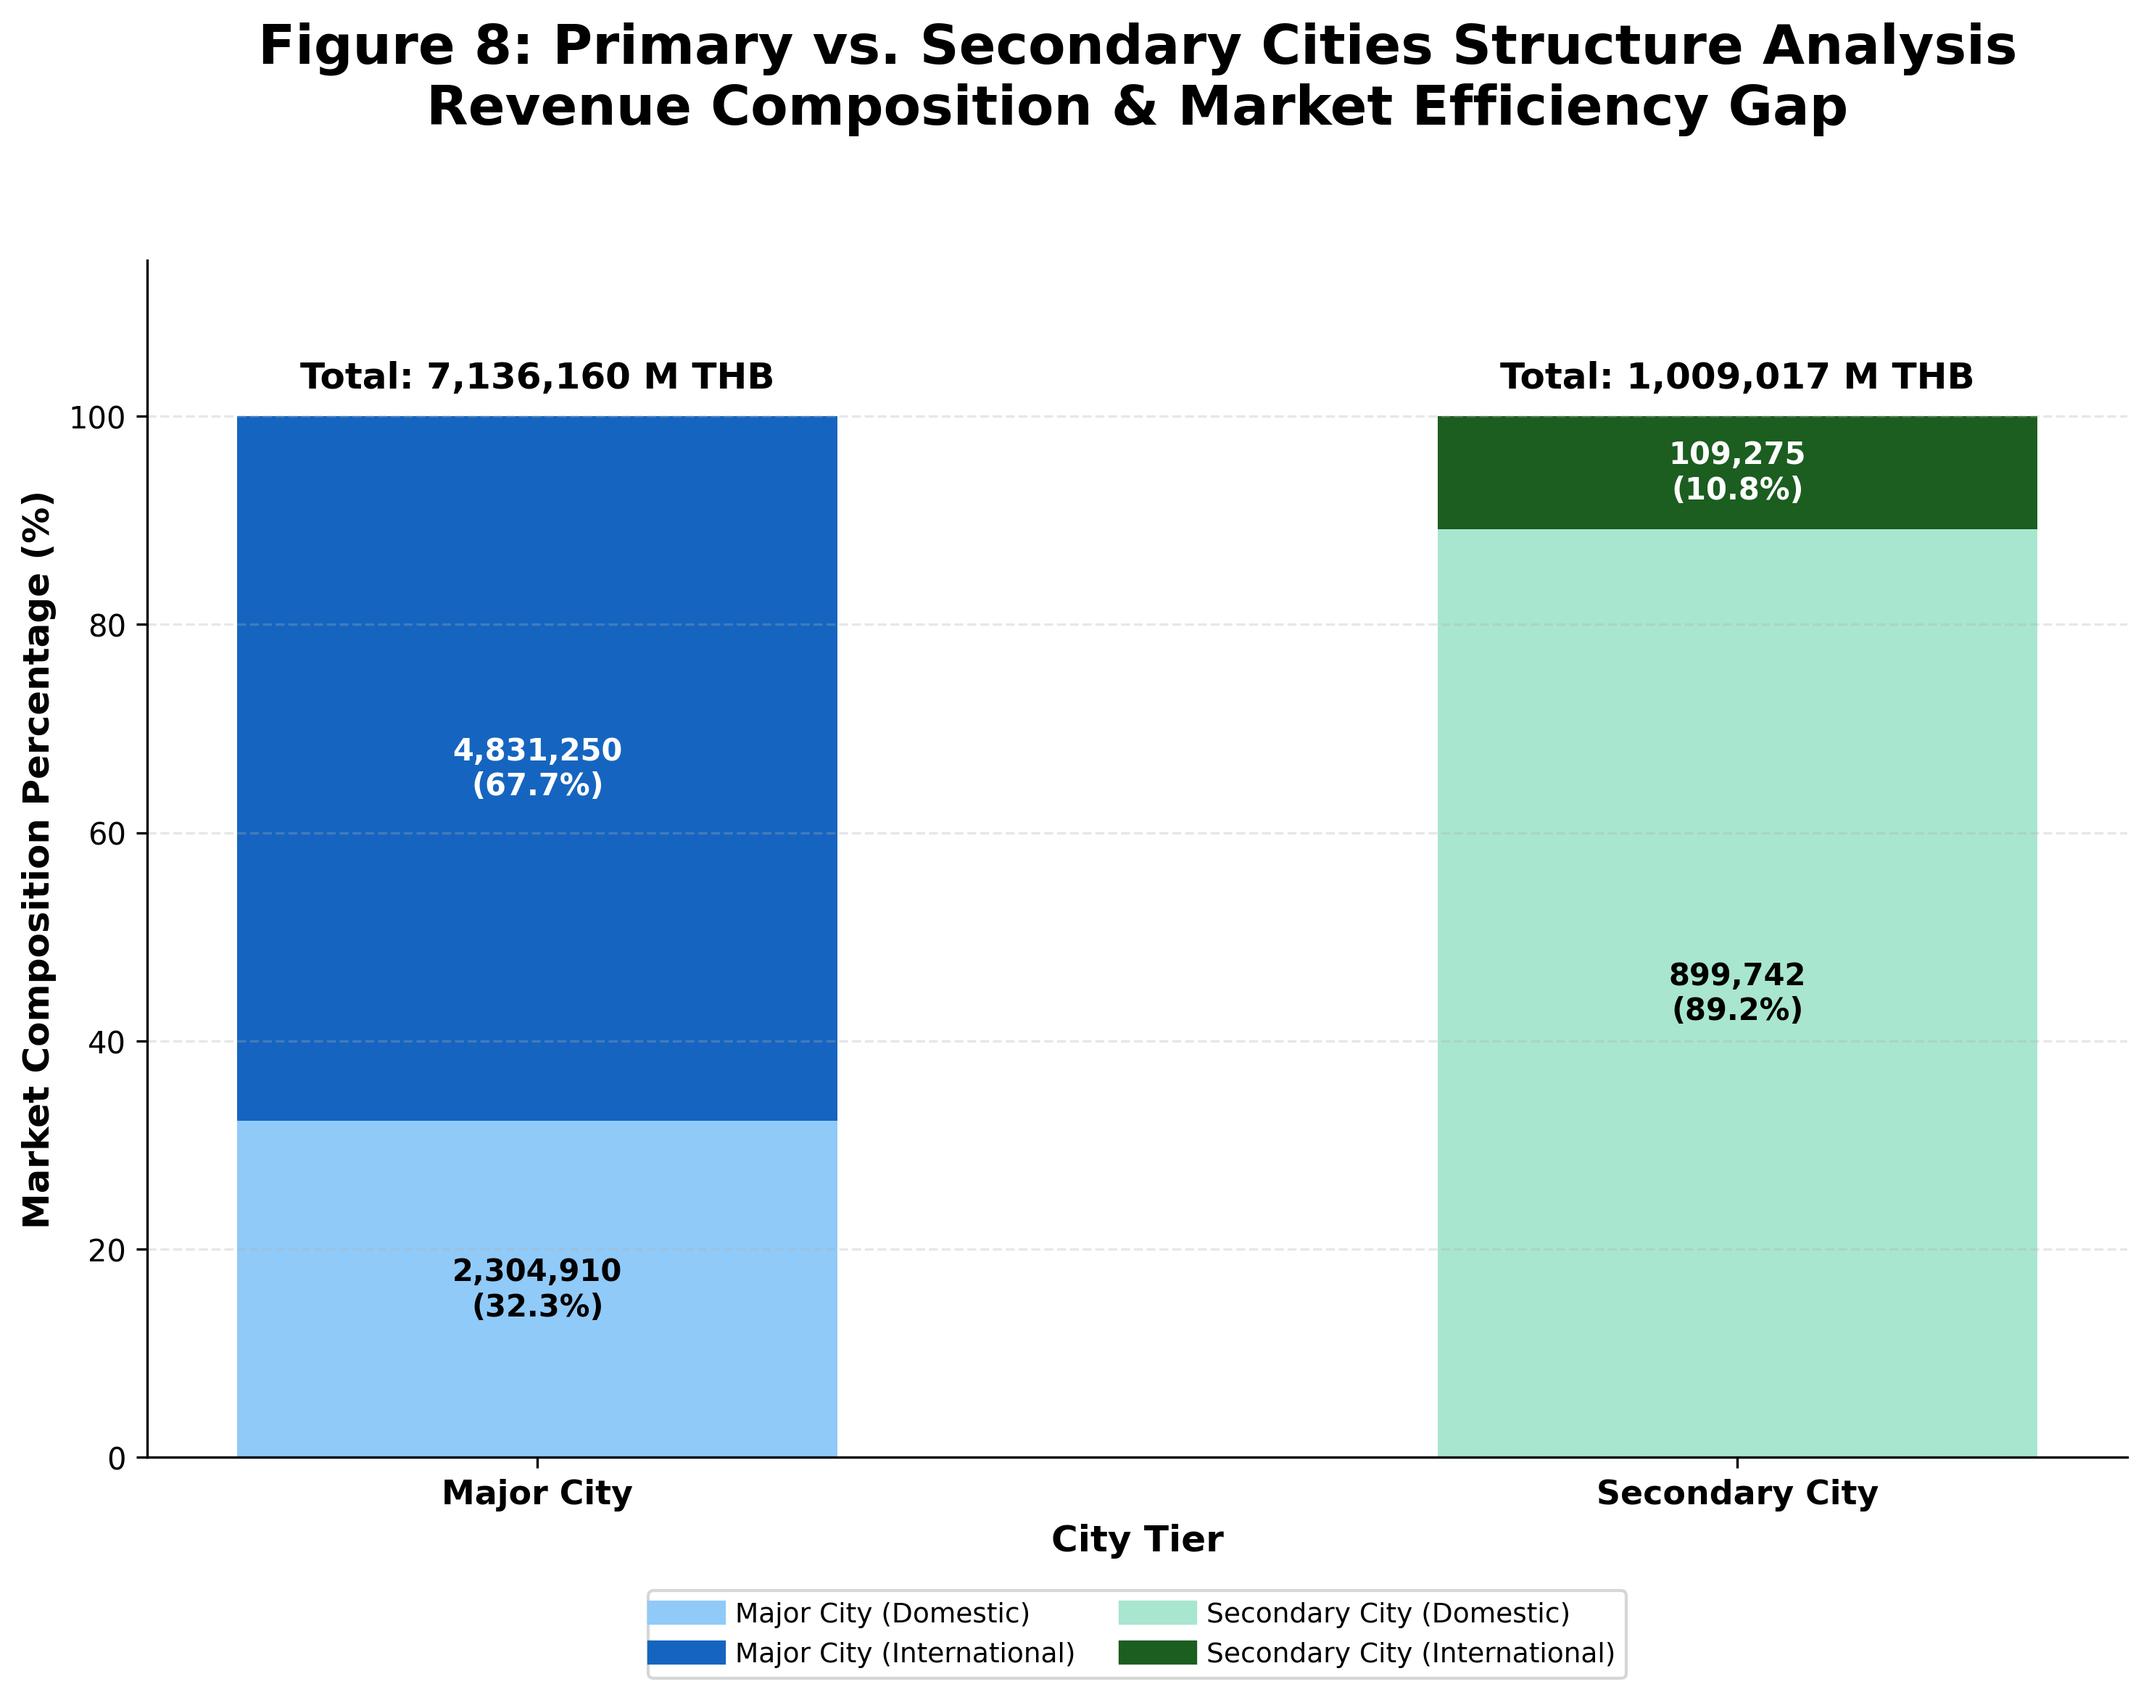
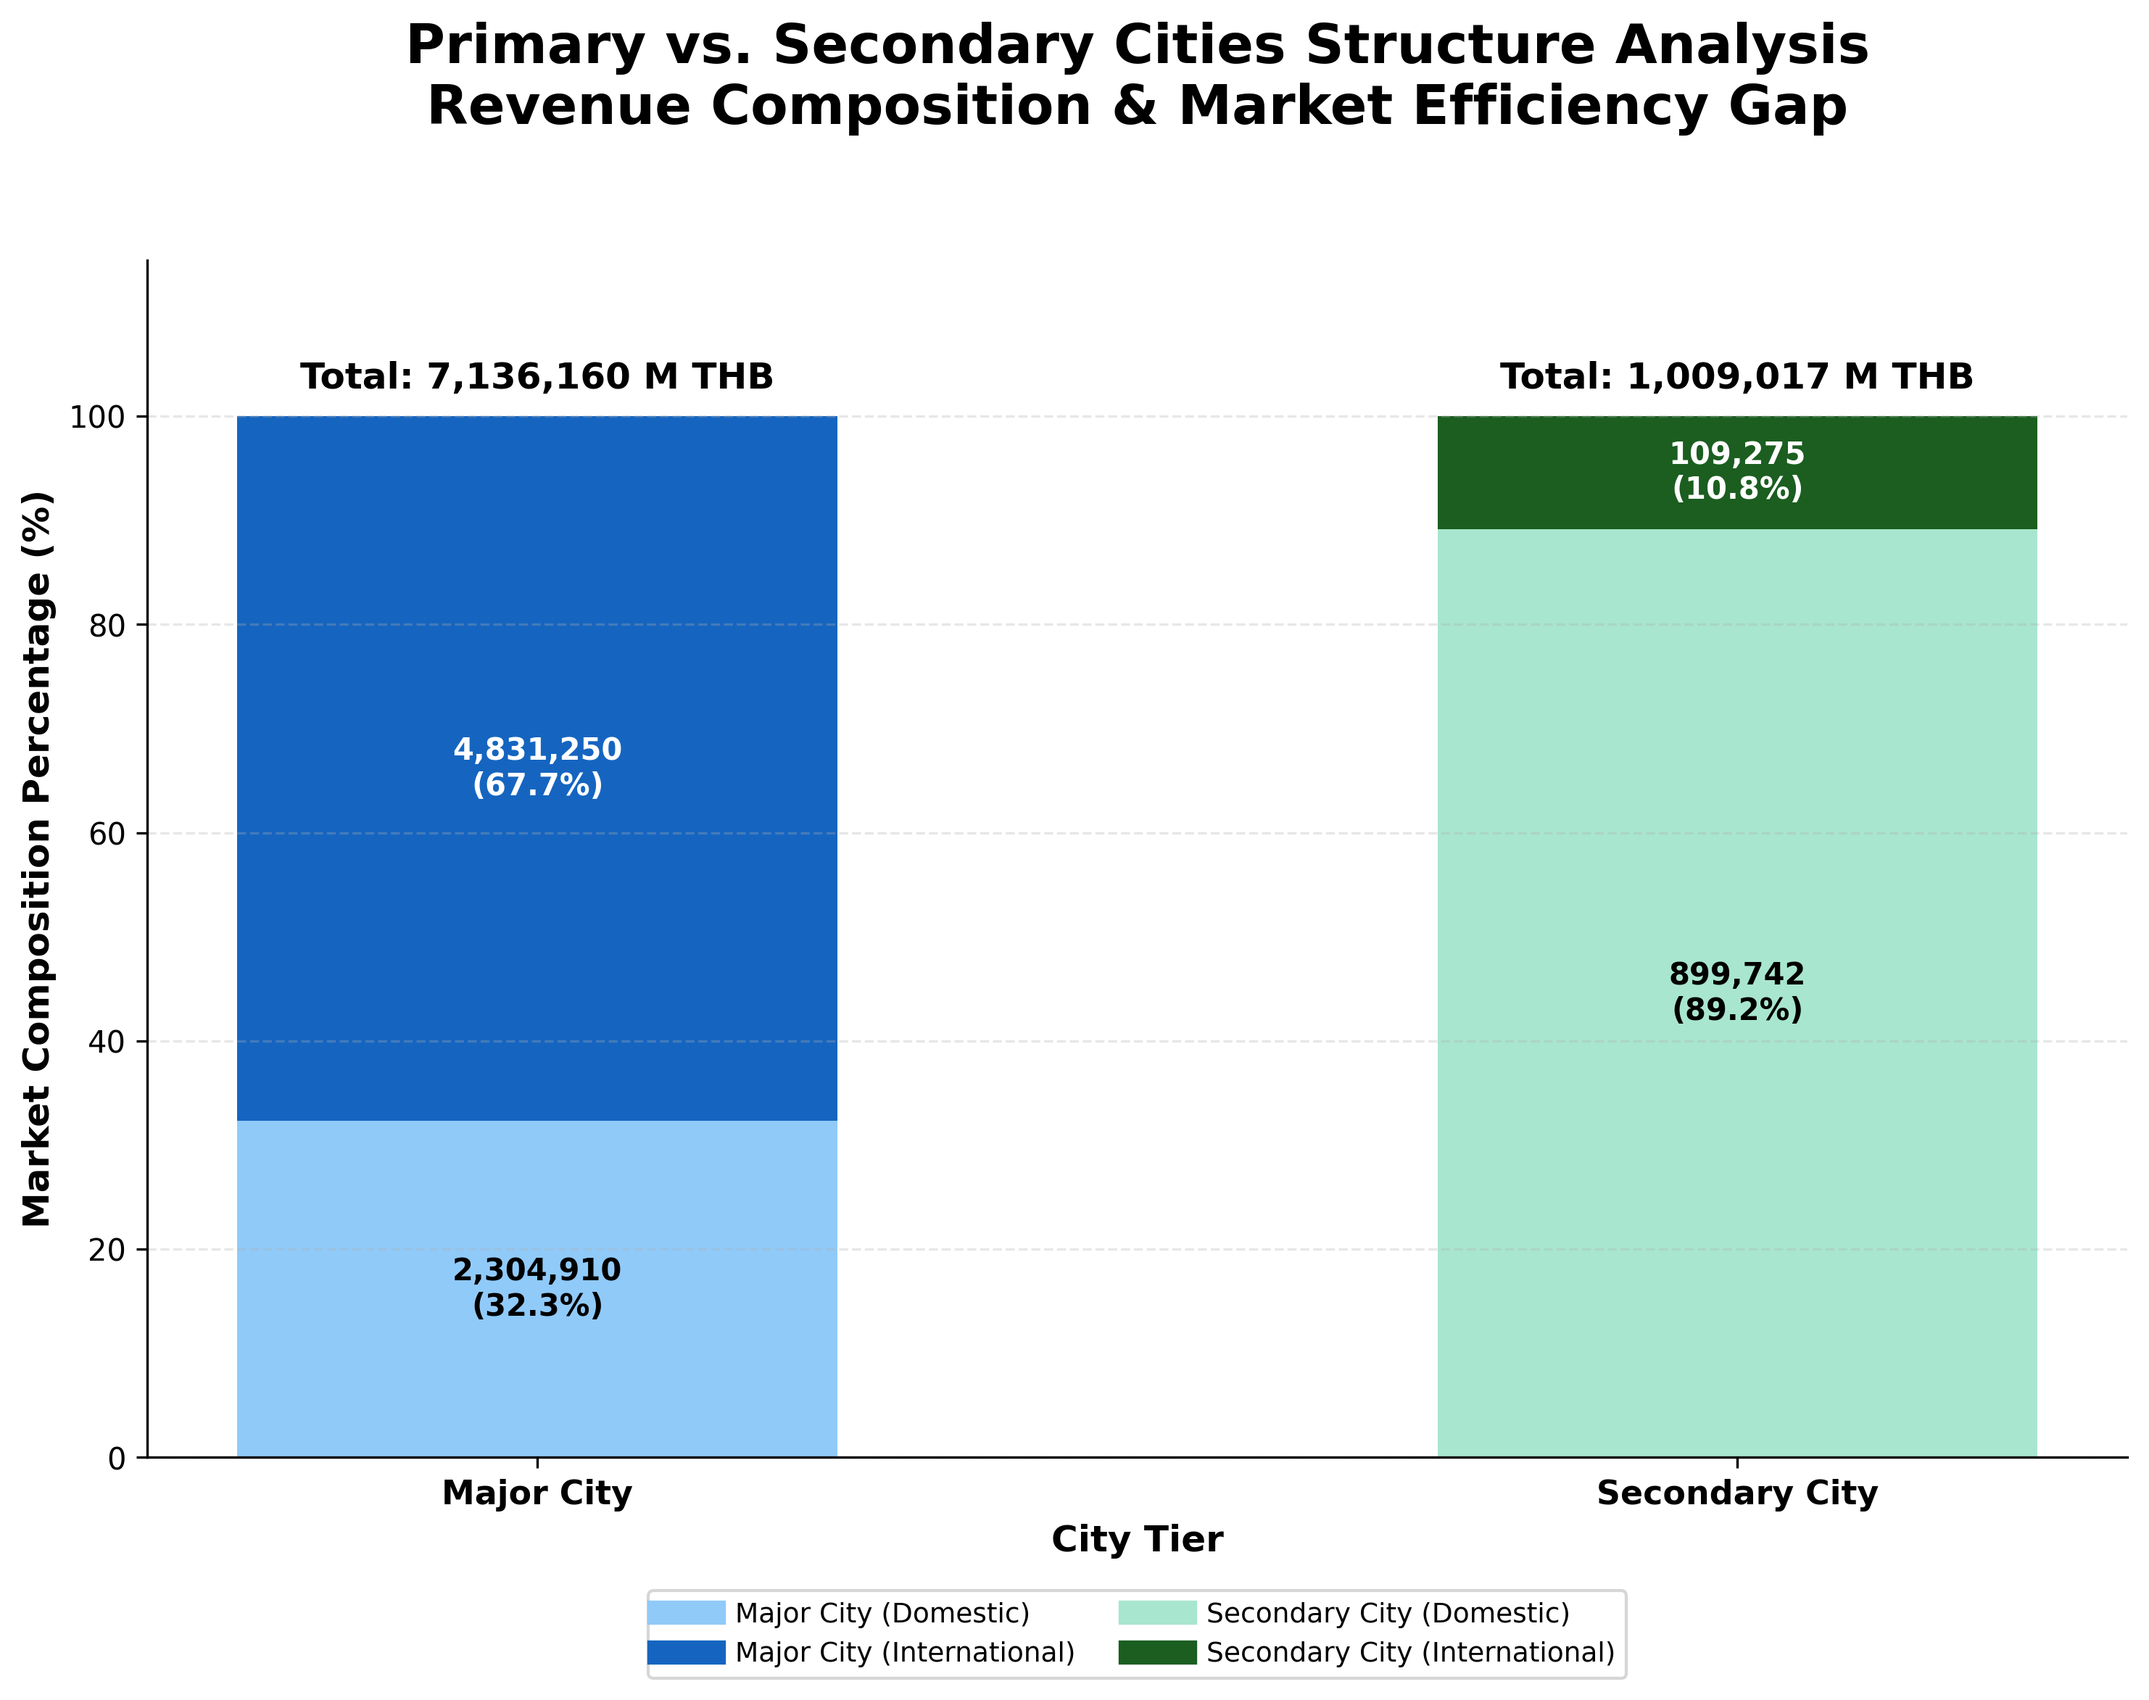
Update visualizations

Changed region(s): [[0.1242, 0.0, 0.9312, 0.0623], [0.2173, 0.7471, 0.2794, 0.7783]]

diff --git a/visualizations/04.3_IncomeStability.py b/visualizations/04.3_IncomeStability.py
@@ -131,7 +131,7 @@ ax.legend(handles=legend_handles, loc='upper right', bbox_to_anchor=(0.98, 0.78)
           fontsize=8.5, framealpha=0.92, edgecolor='#DDDDDD',
           title='Legend', title_fontsize=8.5)
 
-ax.set_title('Figure 5: Income Stability vs. Performance Matrix\nCV of Real Revenue — Higher CV = More Seasonal Risk',
+ax.set_title('Income Stability vs. Performance Matrix\nCV of Real Revenue — Higher CV = More Seasonal Risk',
              fontsize=13, fontweight='bold', color='#1A252F', loc='left', pad=16)
 ax.set_xlabel('Income Volatility  (CV % — lower = more stable)', fontsize=11, color='#444', labelpad=10)
 ax.set_ylabel('Avg Monthly Real Revenue (Million THB, log scale)', fontsize=11, color='#444', labelpad=10)

diff --git a/visualizations/03.1_ConversionEfficiency.py b/visualizations/03.1_ConversionEfficiency.py
@@ -127,7 +127,7 @@ ax.legend(handles=legend_handles, loc='upper right', bbox_to_anchor=(0.98, 0.85)
           fontsize=8.5, framealpha=0.92, edgecolor='#DDDDDD',
           title='Legend', title_fontsize=8.5)
 
-ax.set_title('Figure 4B : Tourism Conversion Matrix\nSearch Intent vs. Physical Arrivals  (avg per province, Bangkok excluded)',
+ax.set_title('Tourism Conversion Matrix\nSearch Intent vs. Physical Arrivals  (avg per province, Bangkok excluded)',
              fontsize=13, fontweight='bold', color='#1A252F', loc='left', pad=16)
 ax.set_xlabel('Search Intent (Digital Interest)', fontsize=11, color='#444', labelpad=10)
 ax.set_ylabel('Total Arrivals (Actual Footprints)', fontsize=11, color='#444', labelpad=10)

diff --git a/visualizations/07_Aggregated_Comparison.py b/visualizations/07_Aggregated_Comparison.py
@@ -73,7 +73,7 @@ for i in range(len(labels)):
                 fontsize=10, fontweight='bold')
 
 # 6. ตกแต่งหัวข้อและแกน (ดำสนิท)
-plt.title('Figure 8: Primary vs. Secondary Cities Structure Analysis\nRevenue Composition & Market Efficiency Gap', 
+plt.title('Primary vs. Secondary Cities Structure Analysis\nRevenue Composition & Market Efficiency Gap', 
           fontsize=18, fontweight='bold', pad=45, color='black')
 plt.ylabel('Market Composition Percentage (%)', fontsize=12, fontweight='bold', color='black')
 plt.xlabel('City Tier', fontsize=12, fontweight='bold', color='black')

diff --git a/visualizations/06_market_segment.py b/visualizations/06_market_segment.py
@@ -82,7 +82,7 @@ for i, total in enumerate(secondary_df['total_rev']):
 ax.invert_yaxis()
 
 # 5. ตกแต่งกราฟให้ดูพรีเมียม
-plt.title('Figure 9: Real Revenue Composition (Thai vs Foreigner)\nTotal Economic Contribution of 55 Secondary Cities', 
+plt.title('Real Revenue Composition (Thai vs Foreigner)\nTotal Economic Contribution of 55 Secondary Cities', 
           fontsize=20, fontweight='bold', pad=40, color='#333333')
 plt.xlabel('Total Real Revenue (Million THB)', fontsize=13, fontweight='bold')
 plt.ylabel('Province', fontsize=13, fontweight='bold')

diff --git a/visualizations/01.1_YieldPerHead.py b/visualizations/01.1_YieldPerHead.py
@@ -54,7 +54,7 @@ for p in ax.patches:
                 fontsize=13, fontweight='bold', color='#2c3e50')
 
 # ปรับ Font และ Labels
-plt.title('Figure 1C : Average Yield per Head (Real Revenue per Visitor)', fontsize=16, fontweight='bold', pad=30, color='#1a1a1a')
+plt.title('Average Yield per Head (Real Revenue per Visitor)', fontsize=16, fontweight='bold', pad=30, color='#1a1a1a')
 plt.xlabel('City Classification', fontsize=13, labelpad=15, fontweight='bold')
 plt.ylabel('Average Real Revenue (THB per Person)', fontsize=13, labelpad=15, fontweight='bold')
 
